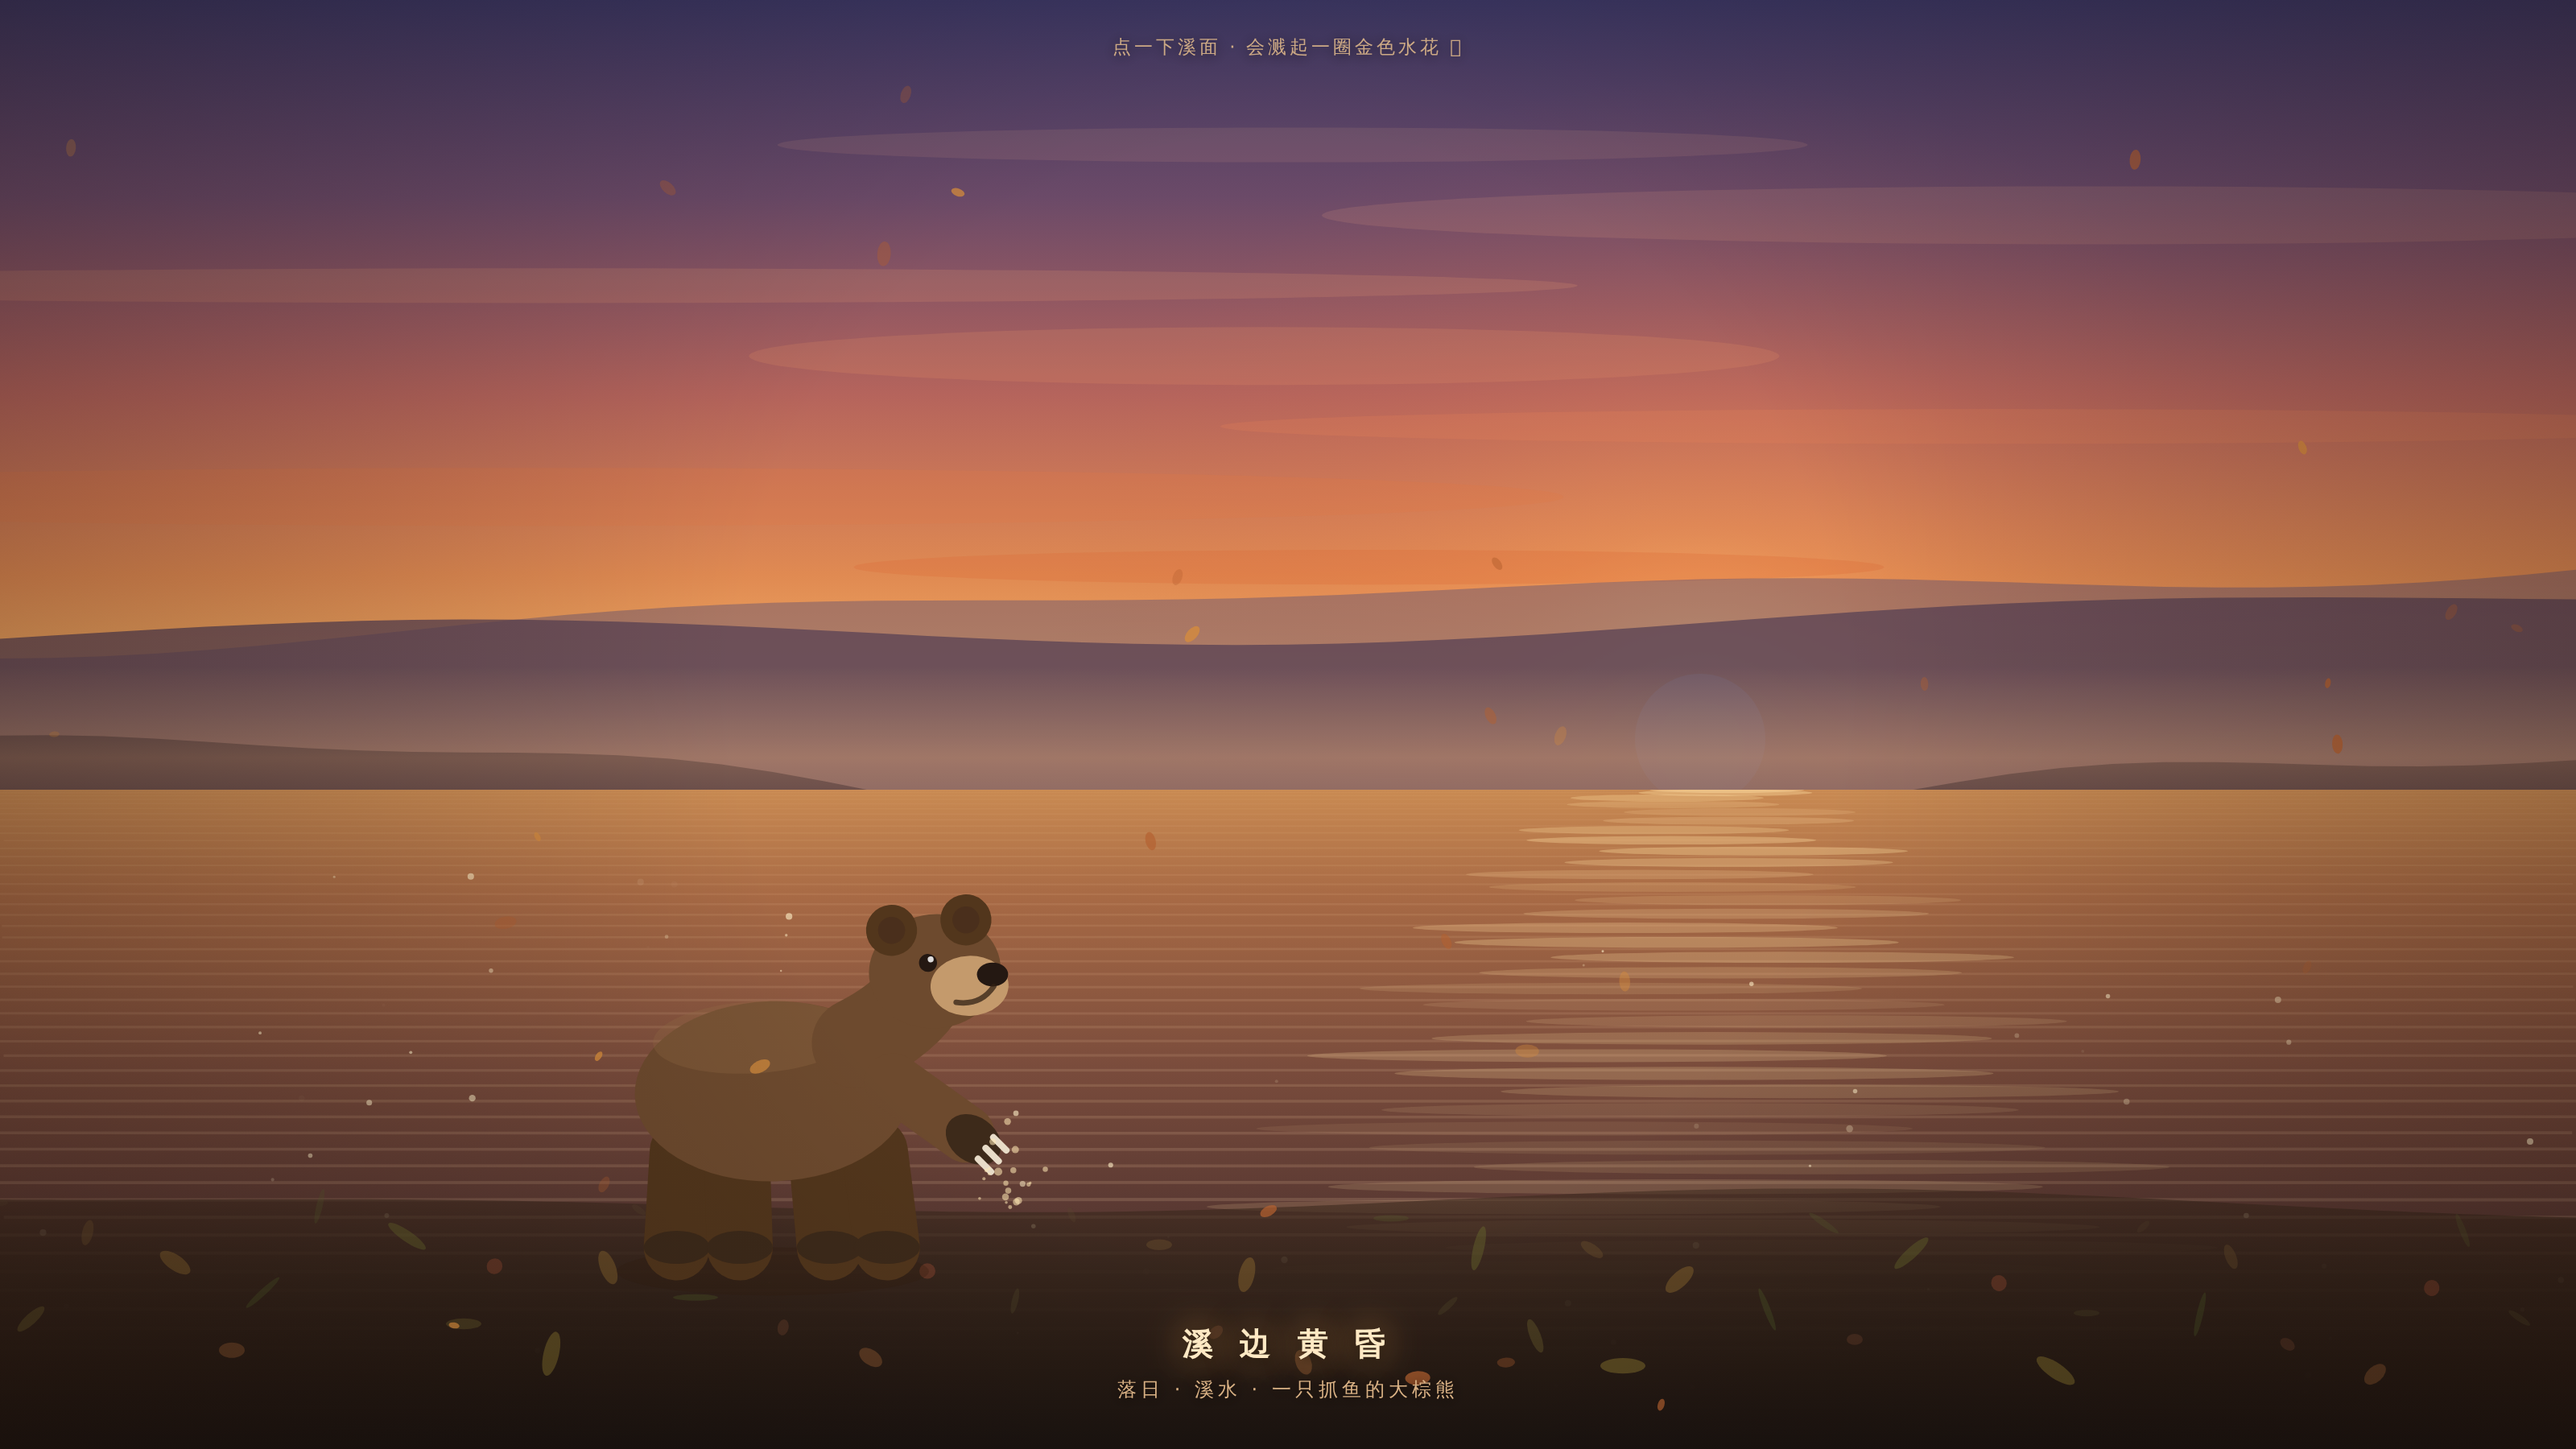
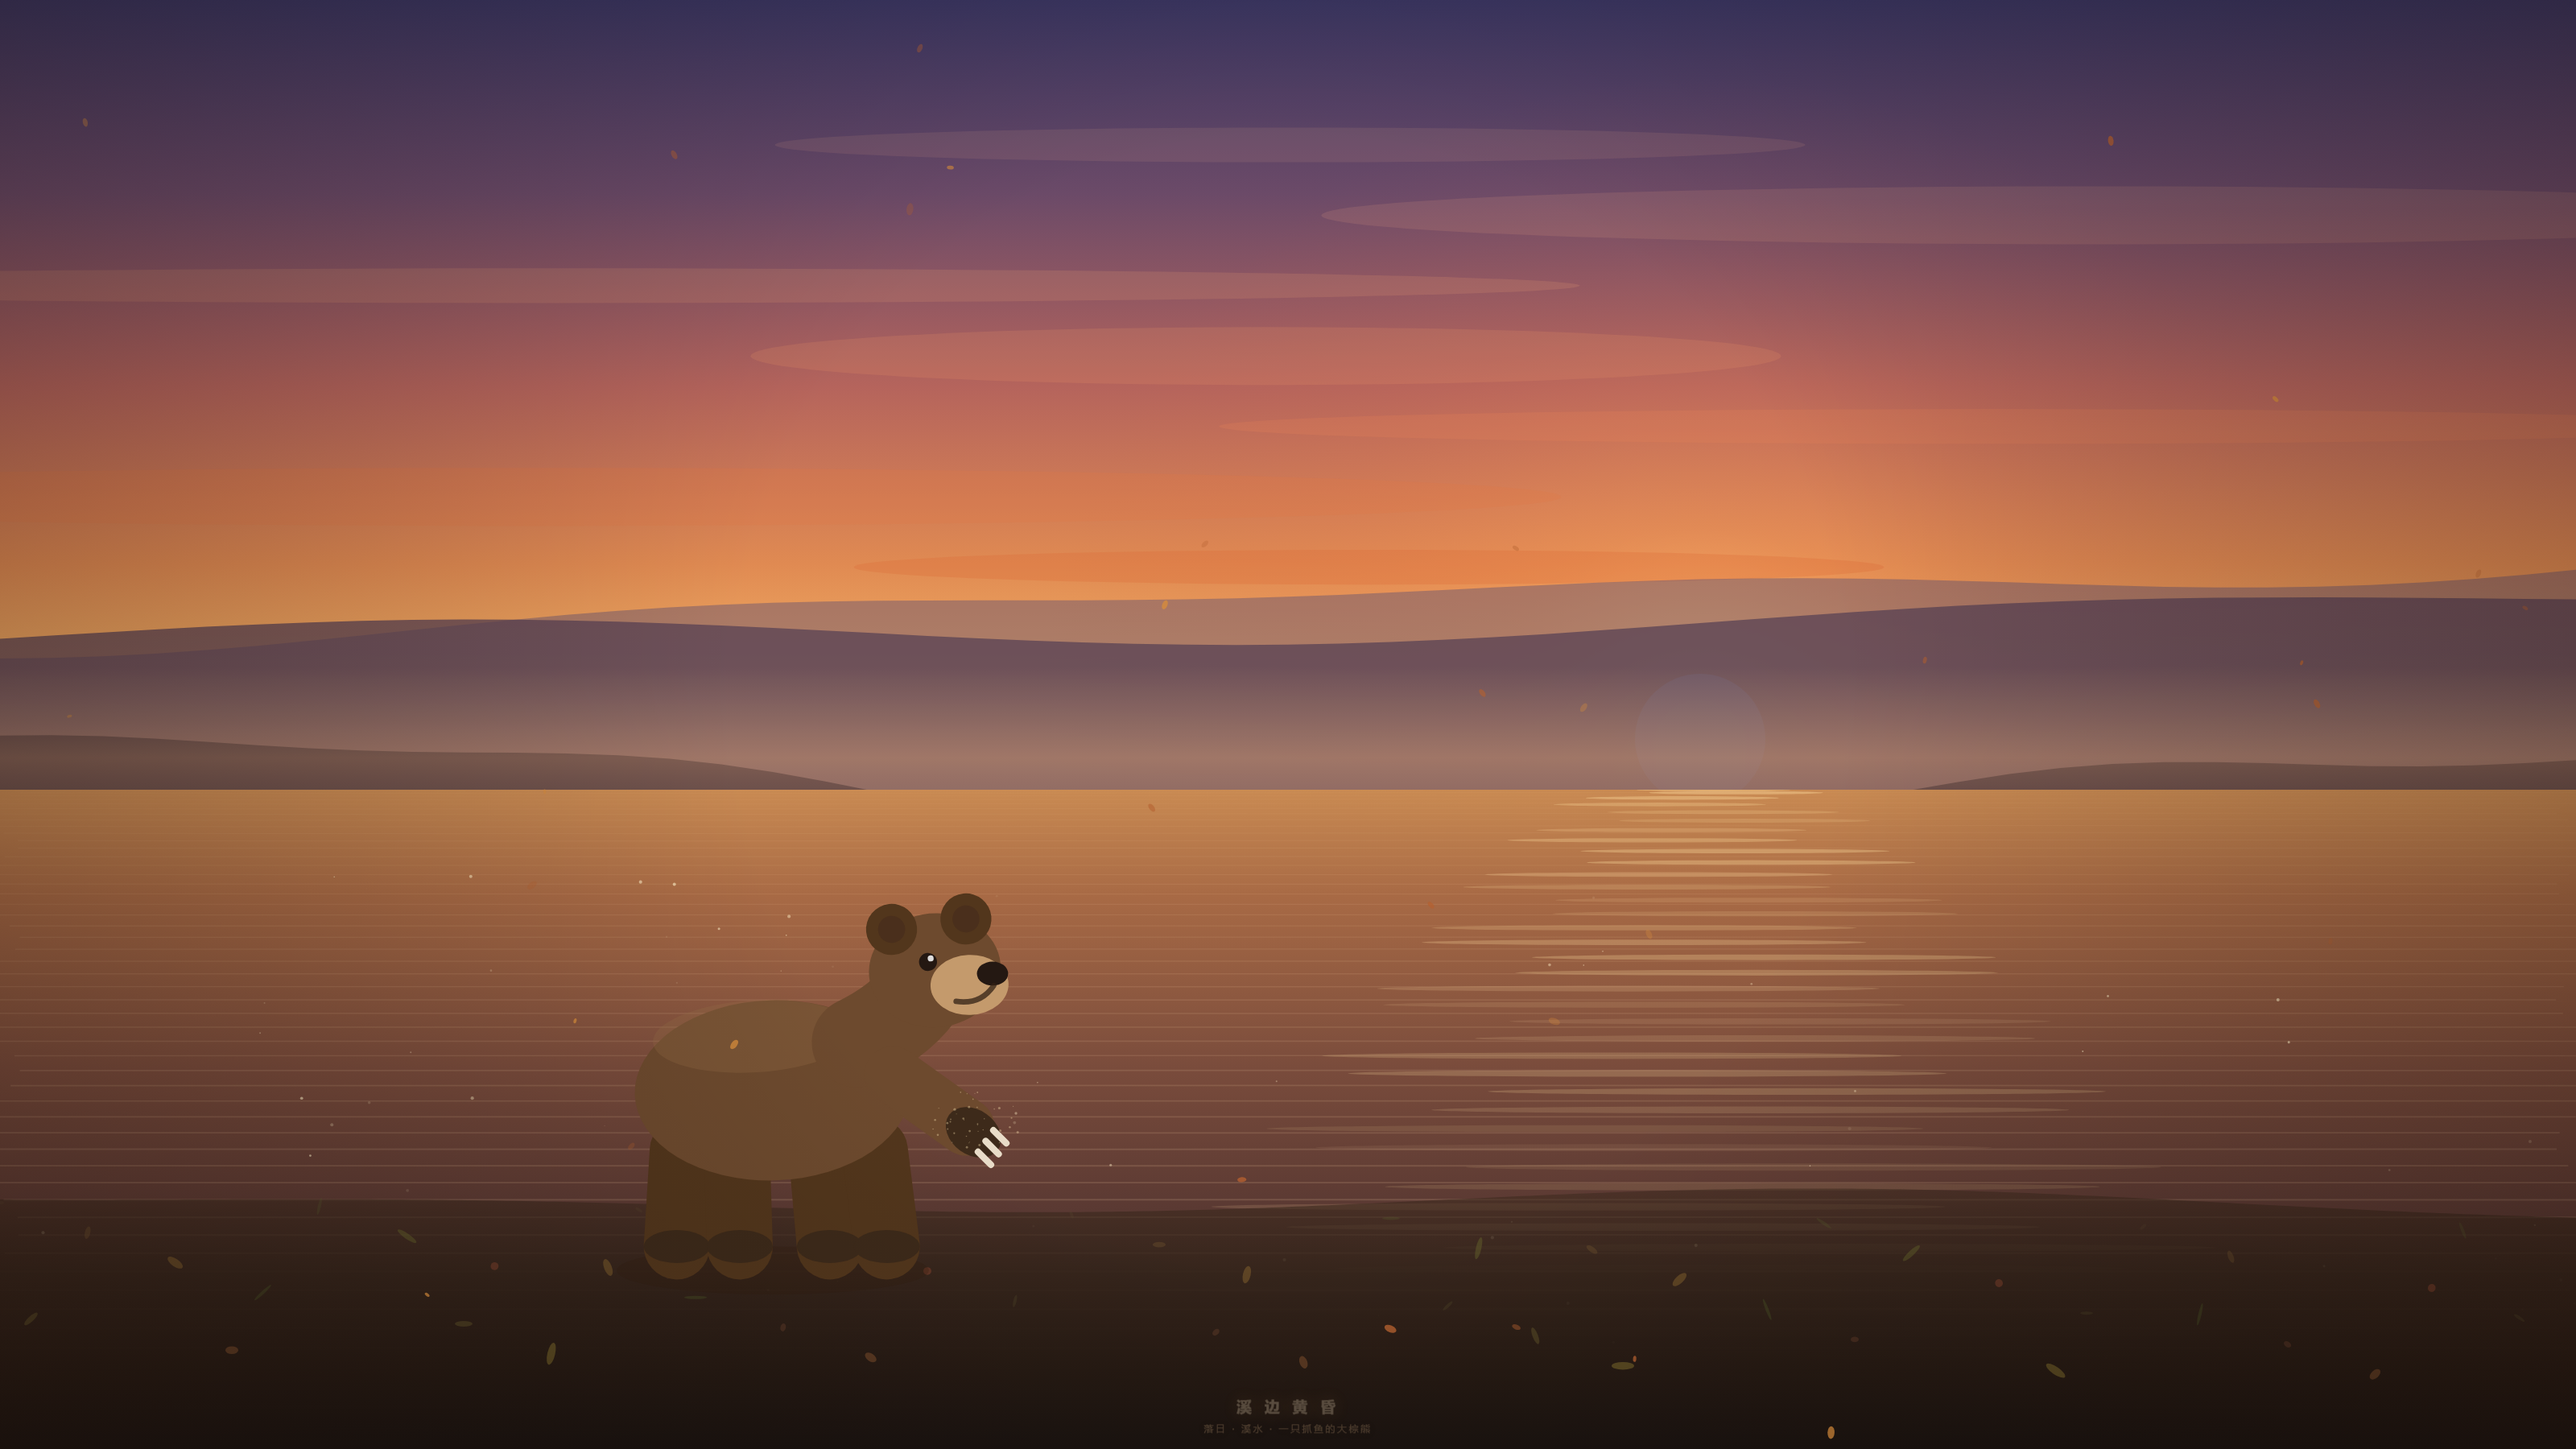
🖼 「一天的光」四张重出干净版 —— 加 ?clean=1，去掉被截进图里的操作提示小字
· 四个 HTML 都加了 ?clean=1（跟四季那四张同一套约定），出图时自动隐藏顶部提示小字

· 按 3200×1800 重出四张全尺寸 PNG，并用 工具/生成预览图.py 重做四张 1280 预览图（画廊同名引用，不用改 gallery.html）

· 逐像素体检：新旧 PNG 只有 1.4%~4.6% 的像素有差，都是雾/草/水面粒子的自然抖动，构图结构没变；顶部小字已消失

· README 记录这次的修正

diff --git a/小鲸鱼的艺术作品/fox-snow-noon.html b/小鲸鱼的艺术作品/fox-snow-noon.html
@@ -35,6 +35,7 @@
     opacity: .9; pointer-events: none;
     text-shadow: 0 1px 8px rgba(255,255,255,.95);
   }
+  body.clean .hint { display: none; }   /* 出图用：?clean=1 去掉操作提示小字 */
 </style>
 </head>
 <body>
@@ -46,6 +47,7 @@
 </div>
 
 <script>
+if (location.search.includes('clean')) document.body.classList.add('clean');
 const cv = document.getElementById('cv');
 const ctx = cv.getContext('2d');
 let W = 0, H = 0, DPR = 1;

diff --git a/小鲸鱼的艺术作品/deer-morning-lake.html b/小鲸鱼的艺术作品/deer-morning-lake.html
@@ -35,6 +35,7 @@
     opacity: .9; pointer-events: none;
     text-shadow: 0 1px 8px rgba(255,255,255,.9);
   }
+  body.clean .hint { display: none; }   /* 出图用：?clean=1 去掉操作提示小字 */
 </style>
 </head>
 <body>
@@ -46,6 +47,7 @@
 </div>
 
 <script>
+if (location.search.includes('clean')) document.body.classList.add('clean');
 const cv = document.getElementById('cv');
 const ctx = cv.getContext('2d');
 let W = 0, H = 0, DPR = 1;

diff --git a/小鲸鱼的艺术作品/bear-creek-dusk.html b/小鲸鱼的艺术作品/bear-creek-dusk.html
@@ -35,6 +35,7 @@
     opacity: .88; pointer-events: none;
     text-shadow: 0 1px 8px rgba(0,0,0,.7);
   }
+  body.clean .hint { display: none; }   /* 出图用：?clean=1 去掉操作提示小字 */
 </style>
 </head>
 <body>
@@ -46,6 +47,7 @@
 </div>
 
 <script>
+if (location.search.includes('clean')) document.body.classList.add('clean');
 const cv = document.getElementById('cv');
 const ctx = cv.getContext('2d');
 let W = 0, H = 0, DPR = 1;

diff --git a/小鲸鱼的艺术作品/owl-moon-pines.html b/小鲸鱼的艺术作品/owl-moon-pines.html
@@ -35,6 +35,7 @@
     opacity: .85; pointer-events: none;
     text-shadow: 0 1px 8px rgba(0,0,0,.8);
   }
+  body.clean .hint { display: none; }   /* 出图用：?clean=1 去掉操作提示小字 */
 </style>
 </head>
 <body>
@@ -46,6 +47,7 @@
 </div>
 
 <script>
+if (location.search.includes('clean')) document.body.classList.add('clean');
 const cv = document.getElementById('cv');
 const ctx = cv.getContext('2d');
 let W = 0, H = 0, DPR = 1;

diff --git a/README.md b/README.md
@@ -1,7 +1,7 @@
 # 工作区目录说明 📁
 
 整理时间：2026-10-13（小D 电脑端大扫除）
-最近更新：2026-10-18 —— 四季四张**做成了一本小相册** `seasons.html`（四张并排，鼠标移上去季节名才浮出来，点哪张进哪张；四张画左上角也各多了一个「← 四季」回家的小标）。同一天还搬进了 **DSH 平台**，并修好了工作区的 Windows 文件权限。
+最近更新：2026-10-18 —— 🖼 **「一天的光」四张重出了干净版**（顶部那行操作提示小字不再被截进图里，四张都加了 `?clean=1` 出图开关）；同一天四季四张**做成了一本小相册** `seasons.html`（四张并排，鼠标移上去季节名才浮出来，点哪张进哪张；四张画左上角也各多了一个「← 四季」回家的小标）。还搬进了 **DSH 平台**，并修好了工作区的 Windows 文件权限。
 上次更新：2026-10-14 —— **「四季」系列四张全部画完** 🌸☀🍂❄：樱花树下的猫 / 荷塘边的青蛙 / 银杏道上的刺猬 / 雪屋前的小企鹅；turtle 处女作改实心蓝 + 提速；修掉一个**大 bug（静态场景每帧重新随机，整幅画在抖）**，从秋那张起改用**离屏静态层**，背景"绝对不动"变成结构保证。
 
 > 一句话规矩：
@@ -20,10 +20,10 @@
 | `frog-lotus-summer.html` / `.png` | 🐸 **四季 · 夏 · 荷塘边的青蛙**（2026-10-14 画）荷叶上晒太阳的青蛙，眯眼笑、腮红、脚趾带蹼。水面会晃光、蜻蜓绕塘飞，**点一下水面荡开一圈涟漪 + 冒气泡**。3200×1800 · `?clean=1` 出干净图<br>🌙 当晚调柔：水光 46→20 颗、亮度砍半，水纹横抖 ±14→±5，蜻蜓扇翅 4.8→1.4 次/秒、飞行速度减 40%（原来一闪一闪晃眼睛）<br>🐛 同晚修：静态场景改成**固定种子**（`SCENE_SEED`），不再每帧重新随机 |
 | `cherry-cat-spring.html` / `.png` | 🌸 **四季 · 春 · 樱花树下的猫**（2026-10-14 画）一只橘白猫坐在樱花树下，眯着眼等花瓣。花瓣会一直飘，**点一下画面就落一场花瓣雨**。3200×1800 · 出图用 `?clean=1` 会去掉操作提示小字<br>🌙 当晚调柔：花瓣 150→95 片、落速与自转都减半、透明度降到 0.36~0.66，蝴蝶扇翅也放慢<br>🐛 同晚修**大 bug**：原来「画完再把种子记下来」，可树的分枝递归每帧消耗的随机数个数不同 → 种子逐帧漂移，**云 / 草 / 光斑 / 整棵树冠每帧重新随机一遍，整幅画在抖**（逐像素对比：18.63% 的像素在动 → 修完 0.14%）。现在用固定常量 `SCENE_SEED` |
 | `noodle-for-mom.html` / `.png` | 🍜 **给妈妈的深夜一碗面**（2026-10-13 手机端画）点蛋晃 + 涟漪、点面撒葱花 + 冒泡、点碗提示烫、右键/长按/空格吹气、鼠标移动筷子会摆。900×900 |
-| `deer-morning-lake.html` / `.png` | 🦌 **一天的光 · 晨雾湖畔**（清晨）薄雾微光，一只低头饮水的小鹿。点湖面荡涟漪。3200×1800 |
-| `fox-snow-noon.html` / `.png` | 🦊 **一天的光 · 雪原正午**（正午）冷白雪原上一只橘色小狐狸。点一下扬雪沫。3200×1800 |
-| `bear-creek-dusk.html` / `.png` | 🐻 **一天的光 · 溪边黄昏**（黄昏）金黄琥珀色，溪边棕熊。点水溅金色水花。3200×1800 |
-| `owl-moon-pines.html` / `.png` | 🦉 **一天的光 · 月下松林**（深夜）深蓝银白，松枝上的猫头鹰。点一下划流星。3200×1800 |
+| `deer-morning-lake.html` / `.png` | 🦌 **一天的光 · 晨雾湖畔**（清晨）薄雾微光，一只低头饮水的小鹿。点湖面荡涟漪。3200×1800 · `?clean=1` 出干净图（2026-10-18 重出，顶部提示小字不再进图） |
+| `fox-snow-noon.html` / `.png` | 🦊 **一天的光 · 雪原正午**（正午）冷白雪原上一只橘色小狐狸。点一下扬雪沫。3200×1800 · `?clean=1` 出干净图（2026-10-18 重出） |
+| `bear-creek-dusk.html` / `.png` | 🐻 **一天的光 · 溪边黄昏**（黄昏）金黄琥珀色，溪边棕熊。点水溅金色水花。3200×1800 · `?clean=1` 出干净图（2026-10-18 重出） |
+| `owl-moon-pines.html` / `.png` | 🦉 **一天的光 · 月下松林**（深夜）深蓝银白，松枝上的猫头鹰。点一下划流星。3200×1800 · `?clean=1` 出干净图（2026-10-18 重出） |
 | `pixel-mc-us.html` | 像素世界 · 一起玩 MC（点机器人嗡嗡响 + 弹爱心） |
 | `pixel-dog-bone.html` | 像素世界 · 小狗啃骨头（点一下摇尾巴 + 掉渣渣） |
 | `whale-lullaby.html` | 鲸鱼摇篮曲 · 深海夜色 |
@@ -34,6 +34,7 @@
 | `cat-outline-9x16.html` | 猫咪纯轮廓 · 360×640 竖屏背景 |
 
 > 🌅 **「一天的光」四部曲**：清晨 🦌 → 正午 🦊 → 黄昏 🐻 → 深夜 🦉，一整天，四只动物，四种光。
+> 🖼 2026-10-18：这四张**重出了干净版**（原来的 PNG 顶部被截进了「点一下水面 · 会荡开一圈涟漪」这类操作提示小字；现在四张都支持 `?clean=1`，重出的 PNG 里没有小字了，只有画面底部的标题还在）。重出后逐像素对比：只有 1.4%~4.6% 的像素有差别，且都是雾/草/水面粒子的自然抖动，结构没变。
 > 🌸 **「四季」系列**（2026-10-14 开工，2026-10-14 收官）：春 · 樱花树下的猫 ✅ → ☀ 夏 · 荷塘边的青蛙 ✅ → 🍂 秋 · 银杏道上的刺猬 ✅ → ❄ 冬 · 雪屋前的小企鹅 ✅ —— 四张齐了
 > 🗓 **「四季」小相册**（2026-10-18）：根目录 `seasons.html` —— 四张并排，鼠标移上去季节名才浮出来，点一下走进那张画；四张画左上角都加了「← 四季」回家的小标（`?clean=1` 出图时会自动隐藏）。截图辅助参数：`?clean=1` 去提示小字，`?hover=2` 让第 2 张假装被鼠标指着（出图用）
 
